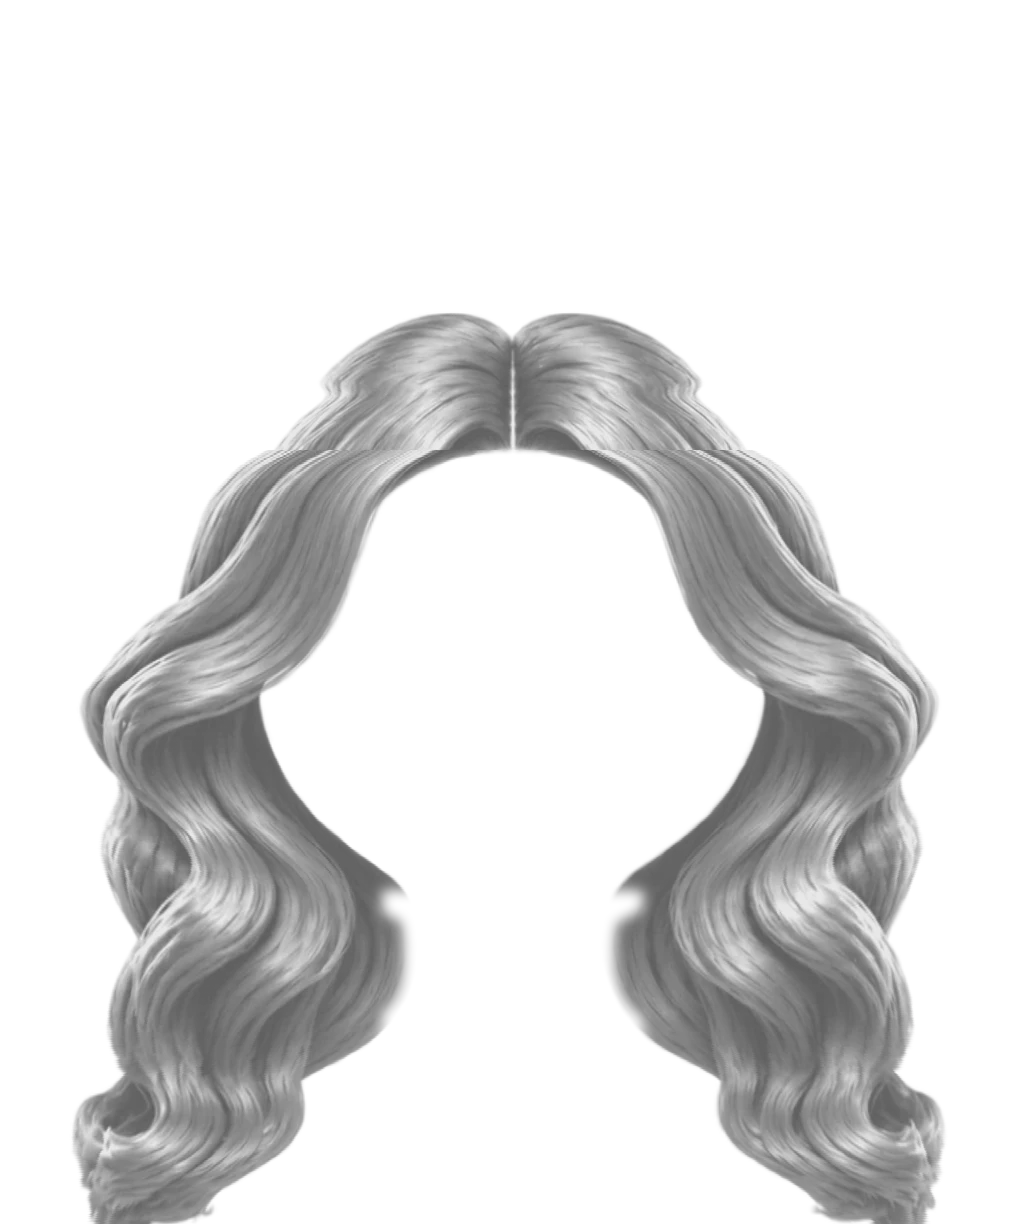
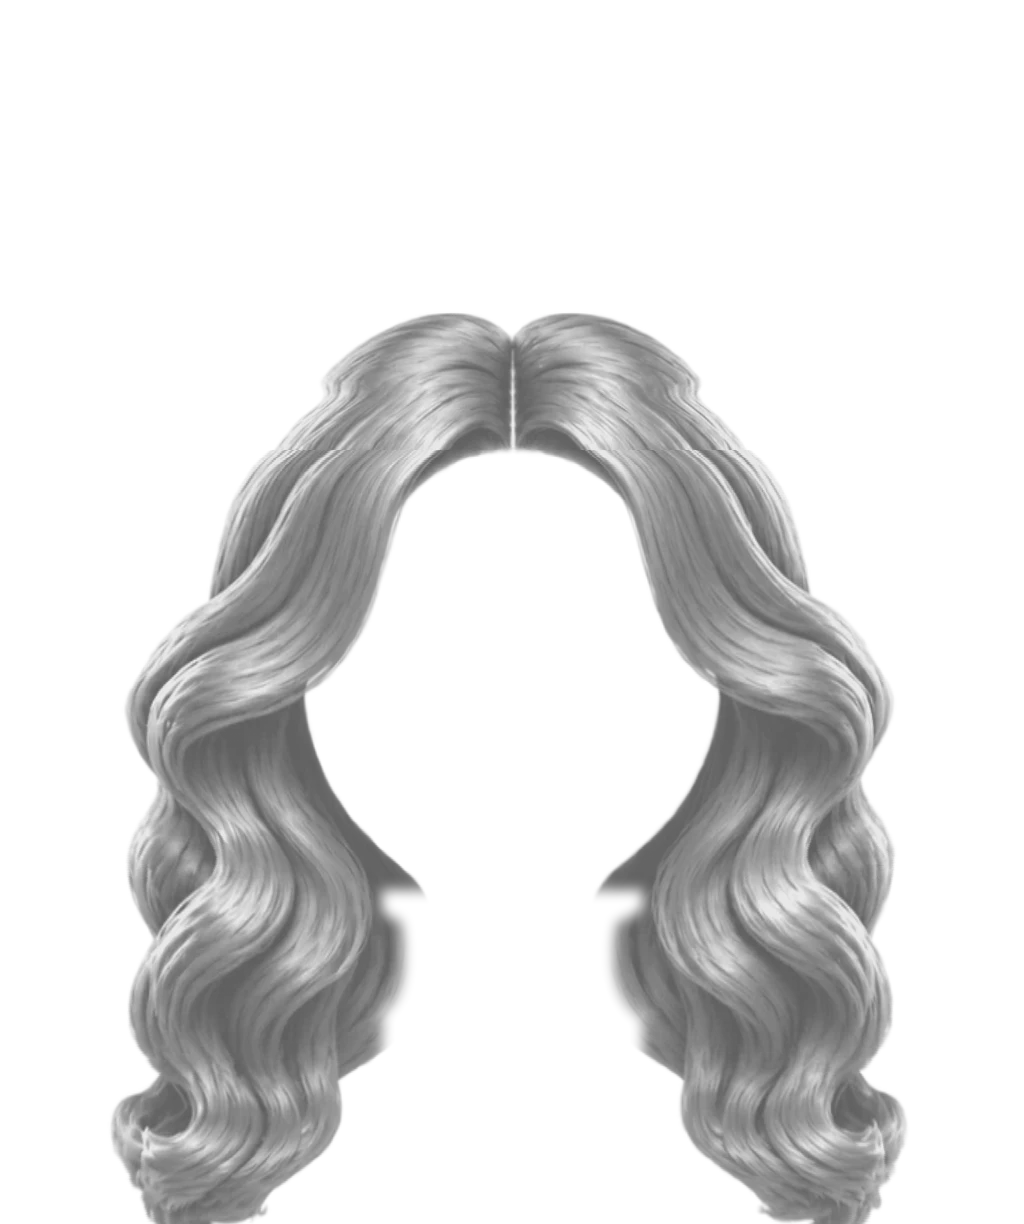
Narrow the hair so it covers the sides of the head, with no gap
The face opening was as wide as the head, so the hair stopped at the head's
edge and its pink rim light showed between the face and the hair. The opening
is now a little narrower than the head, and above the ears the hair always
reaches past the edge of the skull.

Changed region(s): [[0.5625, 0.3415, 0.9375, 1.0], [0.0625, 0.3725, 0.4688, 1.0]]

diff --git a/docs/ARCHITECTURE.md b/docs/ARCHITECTURE.md
@@ -457,7 +457,7 @@ Players pick one of the 12 built-in pictures, or make their own in the **avatar 
 - **The code.** A made-up avatar is stored and sent as a short code, `w1.` followed by one id per part in the order of `AVATAR_FIELDS` (`packages/protocol/src/accounts.ts`), e.g. `w1.classic.4.none…`. It goes wherever a built-in avatar id goes: the join message, the account, the room and match history. The server only checks its shape (`isAvatarValue`), allowing up to 32 parts. New parts are only ever added to the end, so older codes stay valid, and the web app draws any part it doesn't know as the default. Part, colour, pose and expression ids are never renamed, and colours are only ever added to the end of a palette.
 - **Poses.** Each pose is its own template, with every part drawn for that angle, in `apps/web/public/art/avatar-parts/<pose>/<category>/<option>/<file>`. A pose can reuse another's art flipped left to right (`mirrorOf`). Each option lists the poses it has art for, and the creator only offers what the chosen pose has. Today there's one pose, `front`.
 - **The parts** are listed in `apps/web/src/avatar/parts.ts`: the files each option has, whether a hat covers the top of the hair, all of it or none, whether a part is painted once for each value of another part (`paintedFor`: a head per skin tone, `head-3.webp`; an eye per eye colour, `open-3.webp`; a mouth per skin tone, `mouth-3.webp`, with only the lips recoloured to suit the skin; every mouth hangs from the same line under the nose, and open mouths are made smaller so none is more than 100 pixels tall on the grid and reaches the chin), and whether it's a pair (`pair`): eyes, lashes and eyebrows are drawn for the left of the picture only, and the right is the same art flipped around the middle of the face. Lashes are made once for each eye shape (`paintedFor: "eyes"`, `lashes-e3.webp`): when the files are made, the top edge of each eye's lid is measured and the base of each lash style is bent onto it, column by column, so the lashes grow out of the lid with no gap on any eye shape. Past the outer corner the lashes keep their own flick, and they stop at the inner corner. The eyebrows move up or down with the eye shape (`browDrop`), so they sit as far above every eye as above Eyes 2, and move up a little more for lashes tall enough to reach them (`browLift`, only Lashes 11 today), leaving at least 8 pixels between lashes and brows on the grid. The eye gap moves the eyes, lashes and eyebrows out from (or in to) the middle together, 6 pixels on the grid per step. The head comes with its neck and shoulders, so clothes are drawn over it. A unit test checks that every listed file exists, in every pose and tone.
-- **Hair.** Hairstyles are painted on a head with a longer, narrower face than ours, so each style is bent to fit when its files are made, rather than scaled as one piece (which made it sit on the head like a wig): the crown is sized so its edge just above the hairline (250 on the grid) sits on our skull plus the hair's own thickness, and follows the skull's curve lower down; the face opening is widened to our face (500 wide); and the hair around the face keeps the crown's proportions, so it isn't blown up. Hair files reach 200 pixels above the grid (`above`), so tall styles like buns fit, and the whole avatar is drawn at 85% of its circle from the bottom (`FRAME` in `render.ts`), leaving room above the head as in the reference art; close-ups in the creator show the parts at full size. Long hair has a `back` file drawn behind the head: the hair behind the neck, and a dark fill for the back of the hair between the hair and the face. The hair is turned to grey for the hair colour, and hair cuffs are kept in their own colours in a `details` file drawn over it.
+- **Hair.** Hairstyles are painted on a head with a longer, narrower face than ours, so each style is bent to fit when its files are made, rather than scaled as one piece (which made it sit on the head like a wig): the crown is sized so its edge just above the hairline (250 on the grid) sits on our skull plus the hair's own thickness, and follows the skull's curve lower down; the face opening is widened to 410 wide, a little narrower than the head, so the hair covers the sides of the head instead of stopping at its edge; the hair around the face keeps the crown's proportions, so it isn't blown up; and between the hairline and the ears the hair always reaches past the edge of the skull. Hair files reach 200 pixels above the grid (`above`), so tall styles like buns fit, and the whole avatar is drawn at 85% of its circle from the bottom (`FRAME` in `render.ts`), leaving room above the head as in the reference art; close-ups in the creator show the parts at full size. Long hair has a `back` file drawn behind the head: the hair behind the neck, and a dark fill for the back of the hair between the hair and the face. The hair is turned to grey for the hair colour, and hair cuffs are kept in their own colours in a `details` file drawn over it.
 - **Colours.** Parts the player recolours (hair, eyebrows, facial hair, clothes, some hats) are drawn in grey with the main colour at 55% grey, and the browser colours them with a gradient map: dark greys become the shadow colour, the main grey the chosen colour, light greys the highlight, and white stays white.
 - **Expressions.** The player only picks their parts; the saved expression is Happy, which uses the mouth they picked. The other faces (laughing, wink, cheeky, surprised, thinking) each use one of the twelve mouths, and are for the game to pull for a reaction (`avatarPicture` takes a `Face`); the winks need eyes with a closed version. A wink joins half of the open eyes with half of the closed ones.
 - **Drawing.** `avatar/layers.ts` works out which files to draw, back to front. `avatar/render.ts` draws them on a canvas, on a glowing disc with a bright rim like the art direction, and keeps each picture once drawn. Nothing is uploaded.
